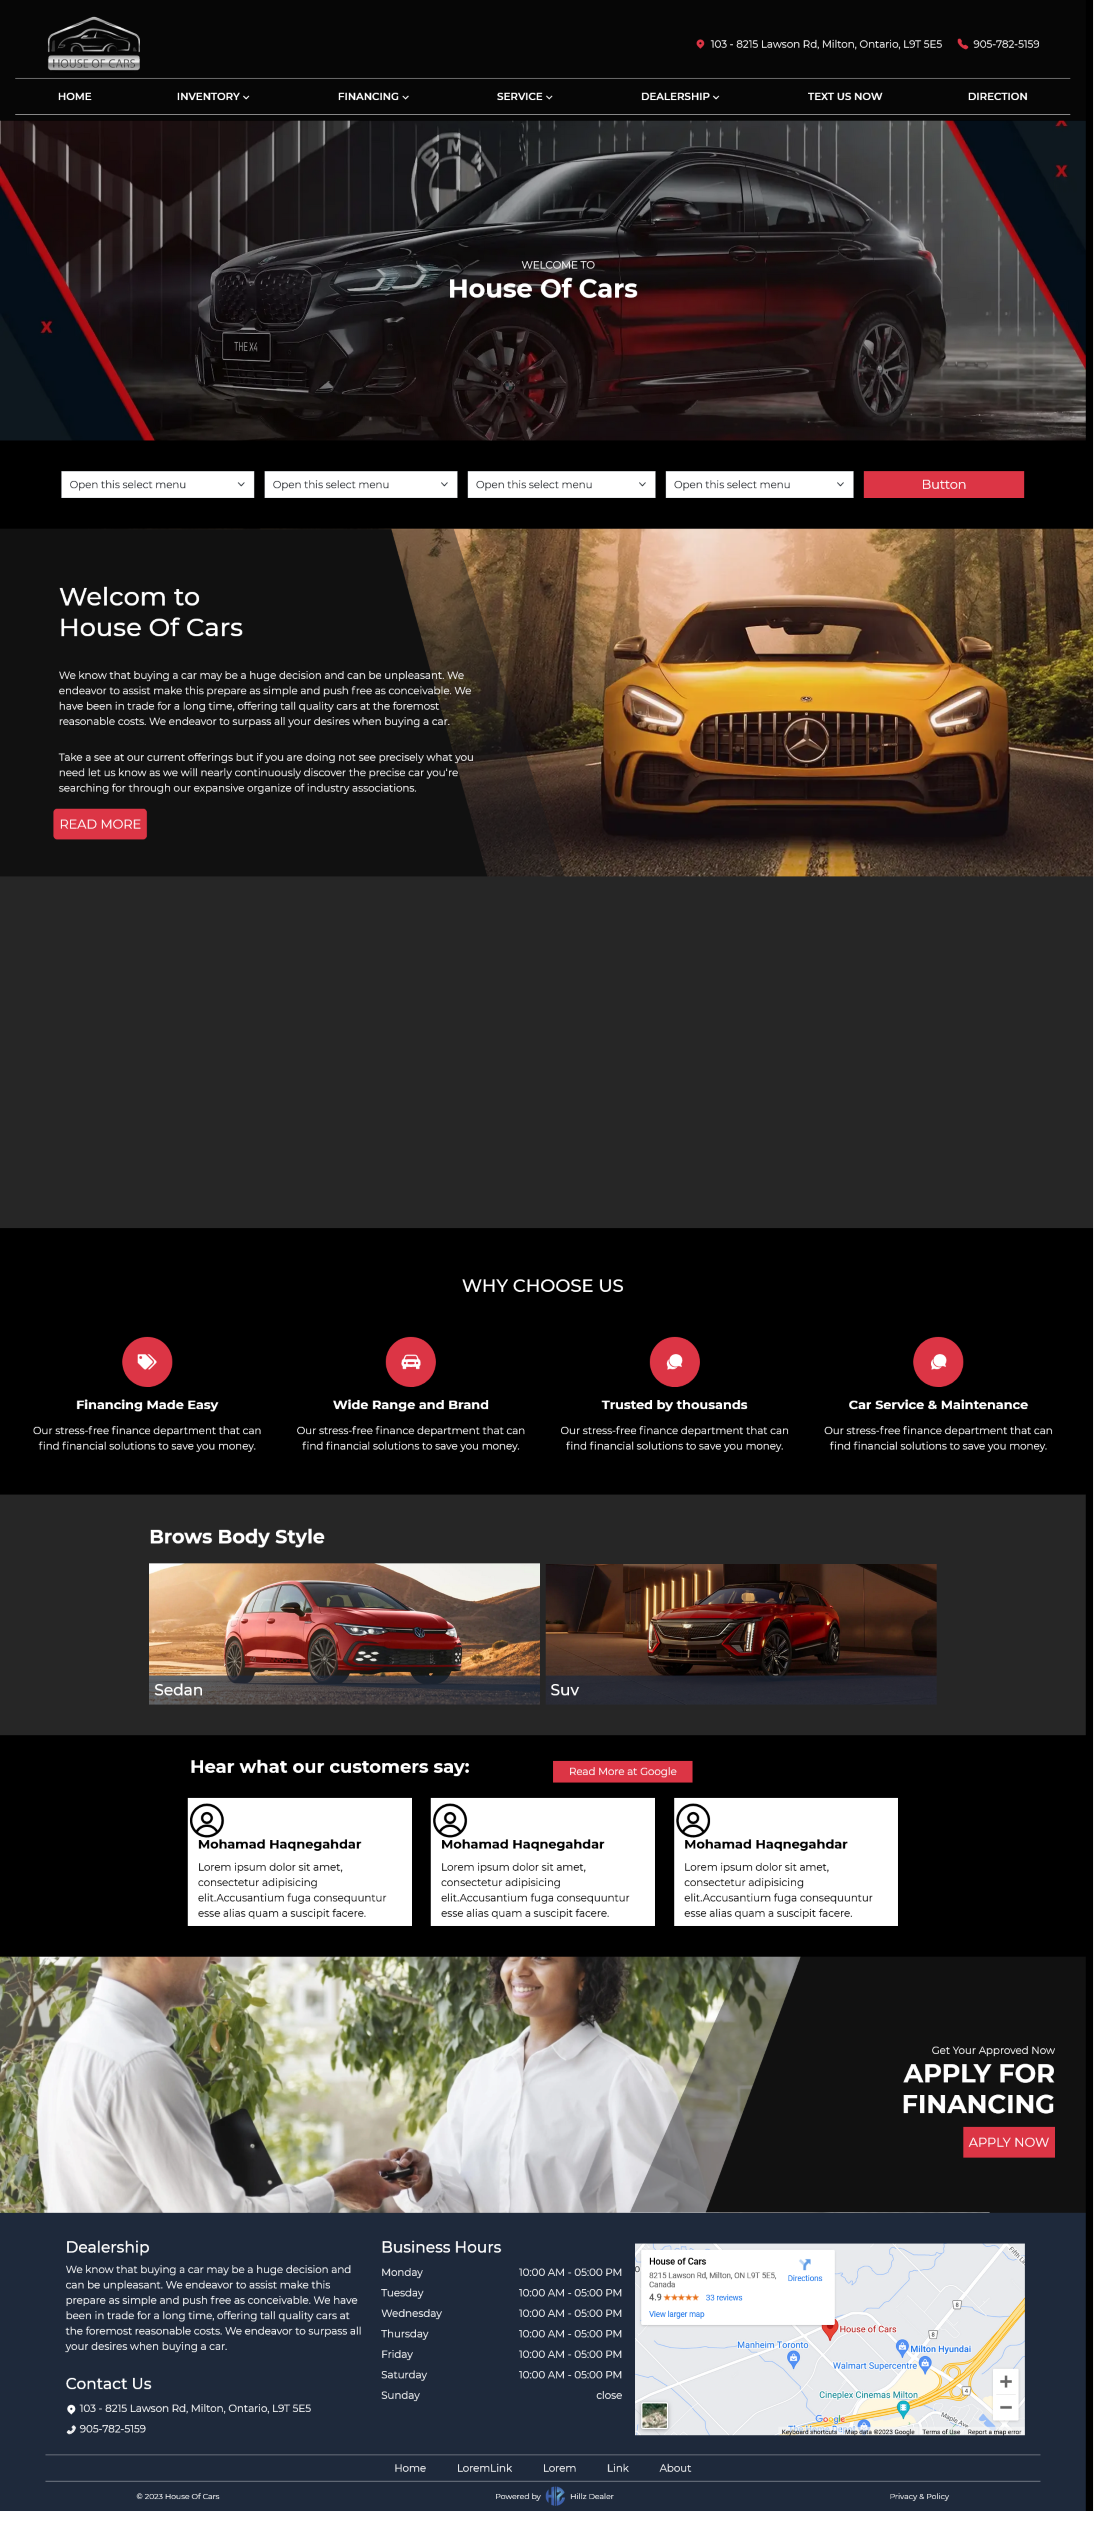
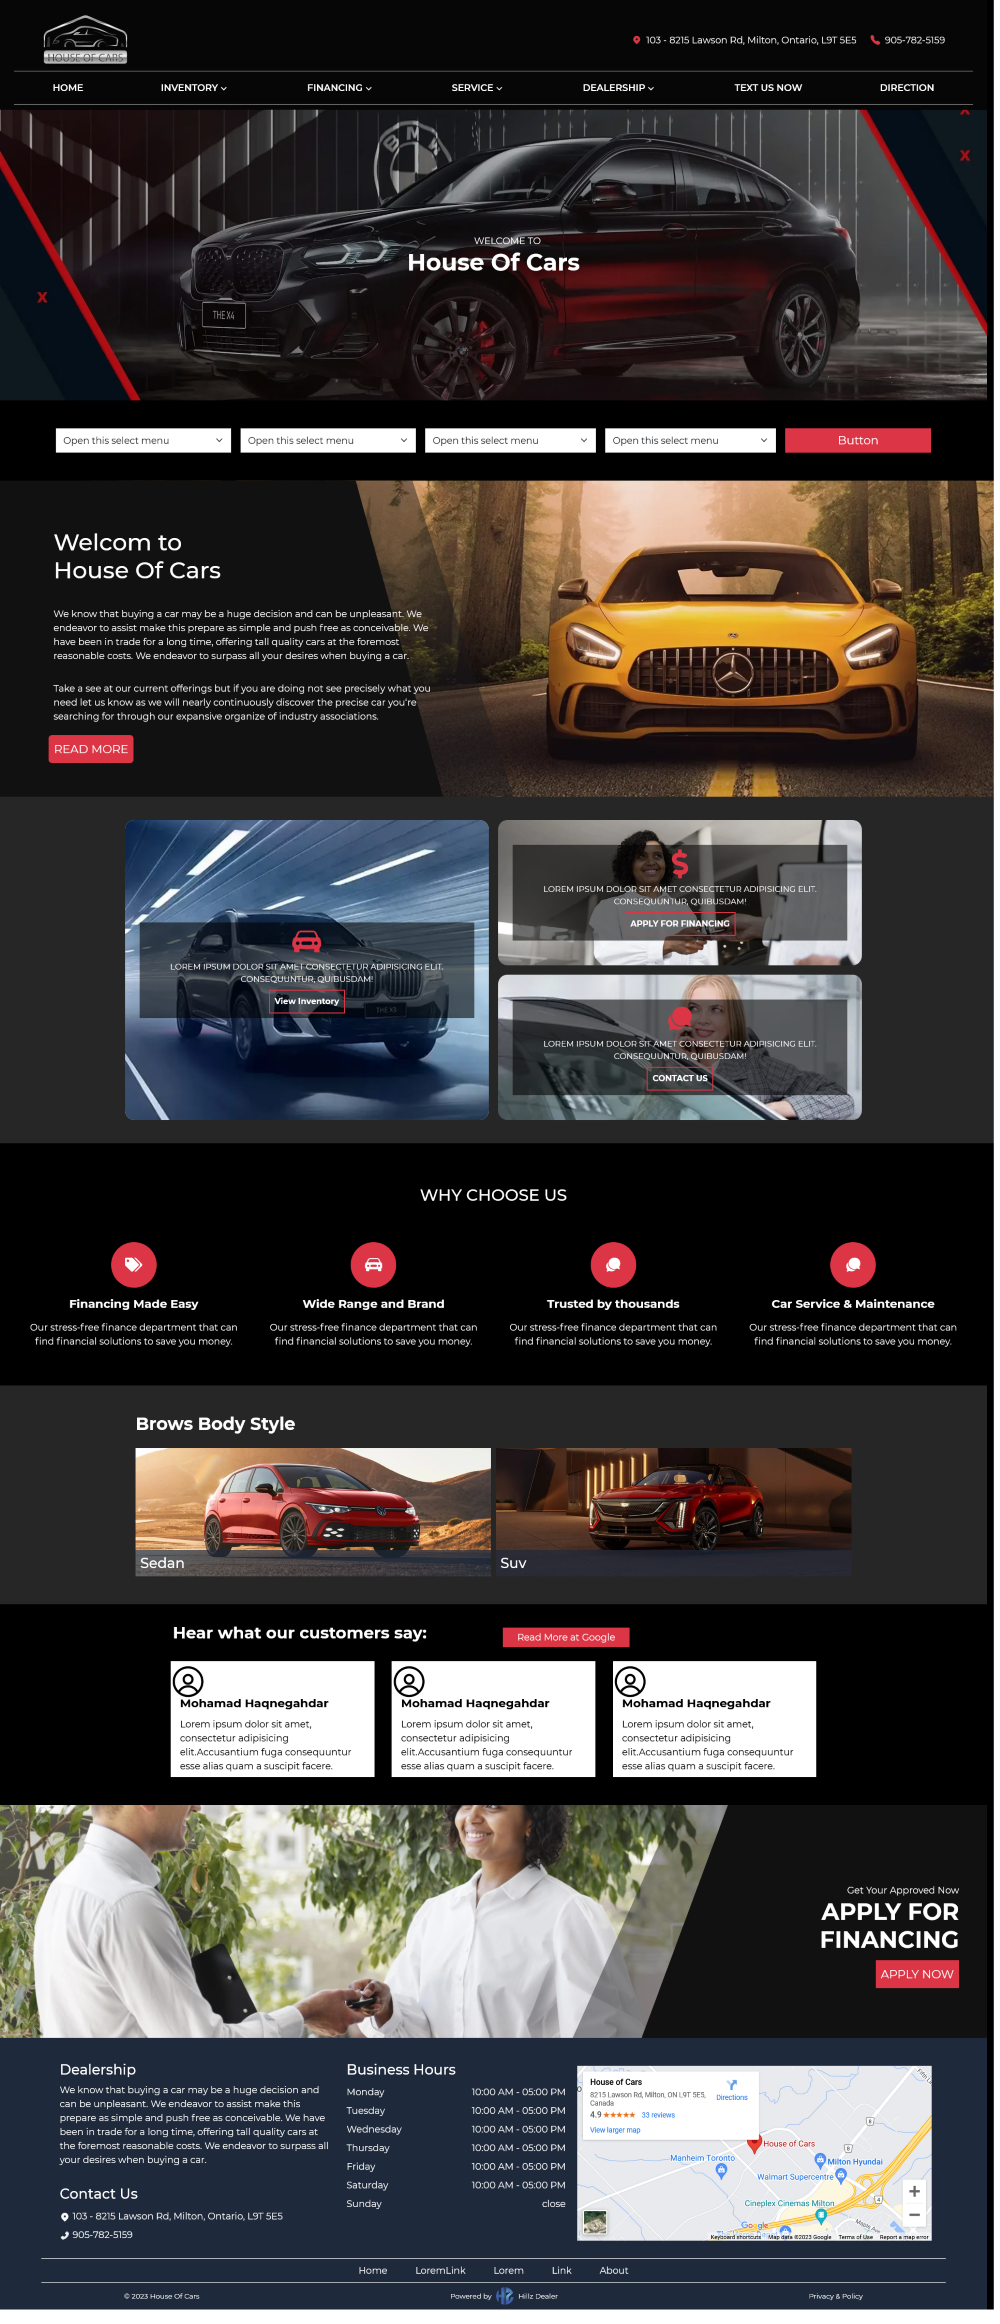
Articles: (#7)
- Added **Articles** component
- Fixed **About** style problem on xs devices so the shadow be shown
- Updated **cover.png**

diff --git a/src/components/layout/home/Articles.tsx b/src/components/layout/home/Articles.tsx
@@ -1,37 +1,80 @@
 // Hooks/Actions
 import Image from "next/image";
+import Link from "next/link";
+
+// Icons
+import { BsCarFrontFill } from "react-icons/bs";
+import { IoIosChatbubbles } from "react-icons/io";
+import { FaDollarSign } from "react-icons/fa";
 
 const Articles = () => {
   return (
-    <section className="article row p-3 d-flex justify-content-center align-items-center ">
-      <div className="col p-0 m-0 col-12 col-md-11 col-lg-9 py-4 row">
-        <div className="col-6">
-          <div className="position-relative w-100 h-100 ">
-            <Image
-              src="https://image123.azureedge.net/houseofcars/0010234991070652288-home_inventory.webp"
-              fill
-              className="object-fit-cover"
-              alt="Sumbnail"
-            />
+    <section className="article row p-3 justify-content-center align-items-center ">
+      <div className="article__container  p-0 m-0 col-12 col-md-11 col-lg-9 py-4 d-flex flex-column flex-lg-row gap-xl-3 gap-lg-2  gap-4 ">
+        <Link
+          href="#"
+          className="card article__card article__card--first position-relative flex-grow-1   rounded-4 overflow-hidden"
+        >
+          <Image
+            src="https://image123.azureedge.net/houseofcars/0010234991070652288-home_inventory.webp"
+            fill
+            className="article__image object-fit-cover"
+            alt="Sumbnail"
+          />
+          <div className="article__info  position-absolute top-50 start-50  translate-middle d-flex flex-column align-items-center justify-content-center py-2 px-3  z-3">
+            <BsCarFrontFill size={50} className="text-danger" />
+            <p className="text-uppercase py-2 text-white text-center">
+              Lorem ipsum dolor sit amet consectetur adipisicing elit.
+              Consequuntur, quibusdam!
+            </p>
+            <button className="border border-2 border-danger fw-bold  bg-transparent p-2 text-white">
+              View Inventory
+            </button>
           </div>
-        </div>
-        <div className="col-6">
-          <div className="position-relative w-100 h-100 ">
+        </Link>
+        <div className="flex-grow-1 d-flex flex-column gap-xl-3 gap-lg-2  gap-4">
+          <Link
+            href="#"
+            className="article__card position-relative w-100   rounded-4 overflow-hidden border-none"
+          >
             <Image
               src="https://image123.azureedge.net/houseofcars/9521024093040917-woman-enjoying-her-financially-independence-while-buying-car-min.webp"
               fill
-              className="object-fit-cover"
+              className="article__image object-fit-cover"
               alt="Sumbnail"
             />
-          </div>
-          <div className="position-relative w-100 h-100 ">
+            <div className="article__info  position-absolute top-50 start-50  translate-middle d-flex flex-column align-items-center justify-content-center py-2 px-3  z-3">
+              <FaDollarSign size={50} className="text-danger" />
+              <p className="text-uppercase py-2 text-white text-center">
+                Lorem ipsum dolor sit amet consectetur adipisicing elit.
+                Consequuntur, quibusdam!
+              </p>
+              <button className="border border-2 border-danger fw-bold  bg-transparent p-2 text-white text-uppercase">
+                Apply For Financing
+              </button>
+            </div>
+          </Link>
+          <Link
+            href="#"
+            className="article__card position-relative w-100  rounded-4 overflow-hidden "
+          >
             <Image
               src="https://image123.azureedge.net/houseofcars/47398665542186436-home._contact us.webp"
               fill
-              className="object-fit-cover"
+              className="article__image object-fit-cover"
               alt="Sumbnail"
             />
-          </div>
+            <div className="article__info  position-absolute top-50 start-50  translate-middle d-flex flex-column align-items-center justify-content-center py-2 px-3  z-3">
+              <IoIosChatbubbles size={50} className="text-danger" />
+              <p className="text-uppercase py-2 text-white text-center">
+                Lorem ipsum dolor sit amet consectetur adipisicing elit.
+                Consequuntur, quibusdam!
+              </p>
+              <button className="border border-2 border-danger fw-bold  bg-transparent p-2 text-white text-uppercase">
+                Contact Us{" "}
+              </button>
+            </div>
+          </Link>
         </div>
       </div>
     </section>

diff --git a/src/assets/sass/pages/home/_articles.scss b/src/assets/sass/pages/home/_articles.scss
@@ -1,4 +1,32 @@
 .article {
   background-color: #262626;
-  min-height: 550px;
+
+  &__image {
+    transition: transform 0.3s ease-in-out, -webkit-transform 0.3s ease-in-out,
+      -moz-transform 0.3s ease-in-out;
+  }
+
+  &__card {
+    &:hover {
+      img {
+        transform: scale(1.2);
+      }
+    }
+
+    @include xs() {
+      min-height: 250px;
+    }
+
+    &--first {
+      @include lg() {
+        min-height: 500px;
+      }
+    }
+  }
+
+  &__info {
+    width: 92%;
+    background-color: rgba(0, 0, 0, 0.568627451);
+    font-size: 14px;
+  }
 }

diff --git a/src/assets/sass/pages/home/_about.scss b/src/assets/sass/pages/home/_about.scss
@@ -25,7 +25,7 @@ $breakpoint: 768px;
   }
 
   &__shape1 {
-    @include sm {
+    @include xs {
       width: 100%;
       background-color: rgba(27, 27, 29, 0.9);
       clip-path: inset(0 0 0 0);

diff --git a/src/components/common/layout/footer/FooterInfo.tsx b/src/components/common/layout/footer/FooterInfo.tsx
@@ -1,4 +1,7 @@
+//Hooks
 import Link from "next/link";
+
+//Icons
 import { AiTwotonePhone } from "react-icons/ai";
 import { HiLocationMarker } from "react-icons/hi";
 

diff --git a/src/assets/sass/_breackpoints.scss b/src/assets/sass/_breackpoints.scss
@@ -2,7 +2,7 @@ $breakpoints: (
   "xs": 0,
   "sm": 575px,
   "md": 767px,
-  "lg": 959px,
+  "lg": 992px,
   "xl": 1199px,
   "xxl": 1399px,
 );
